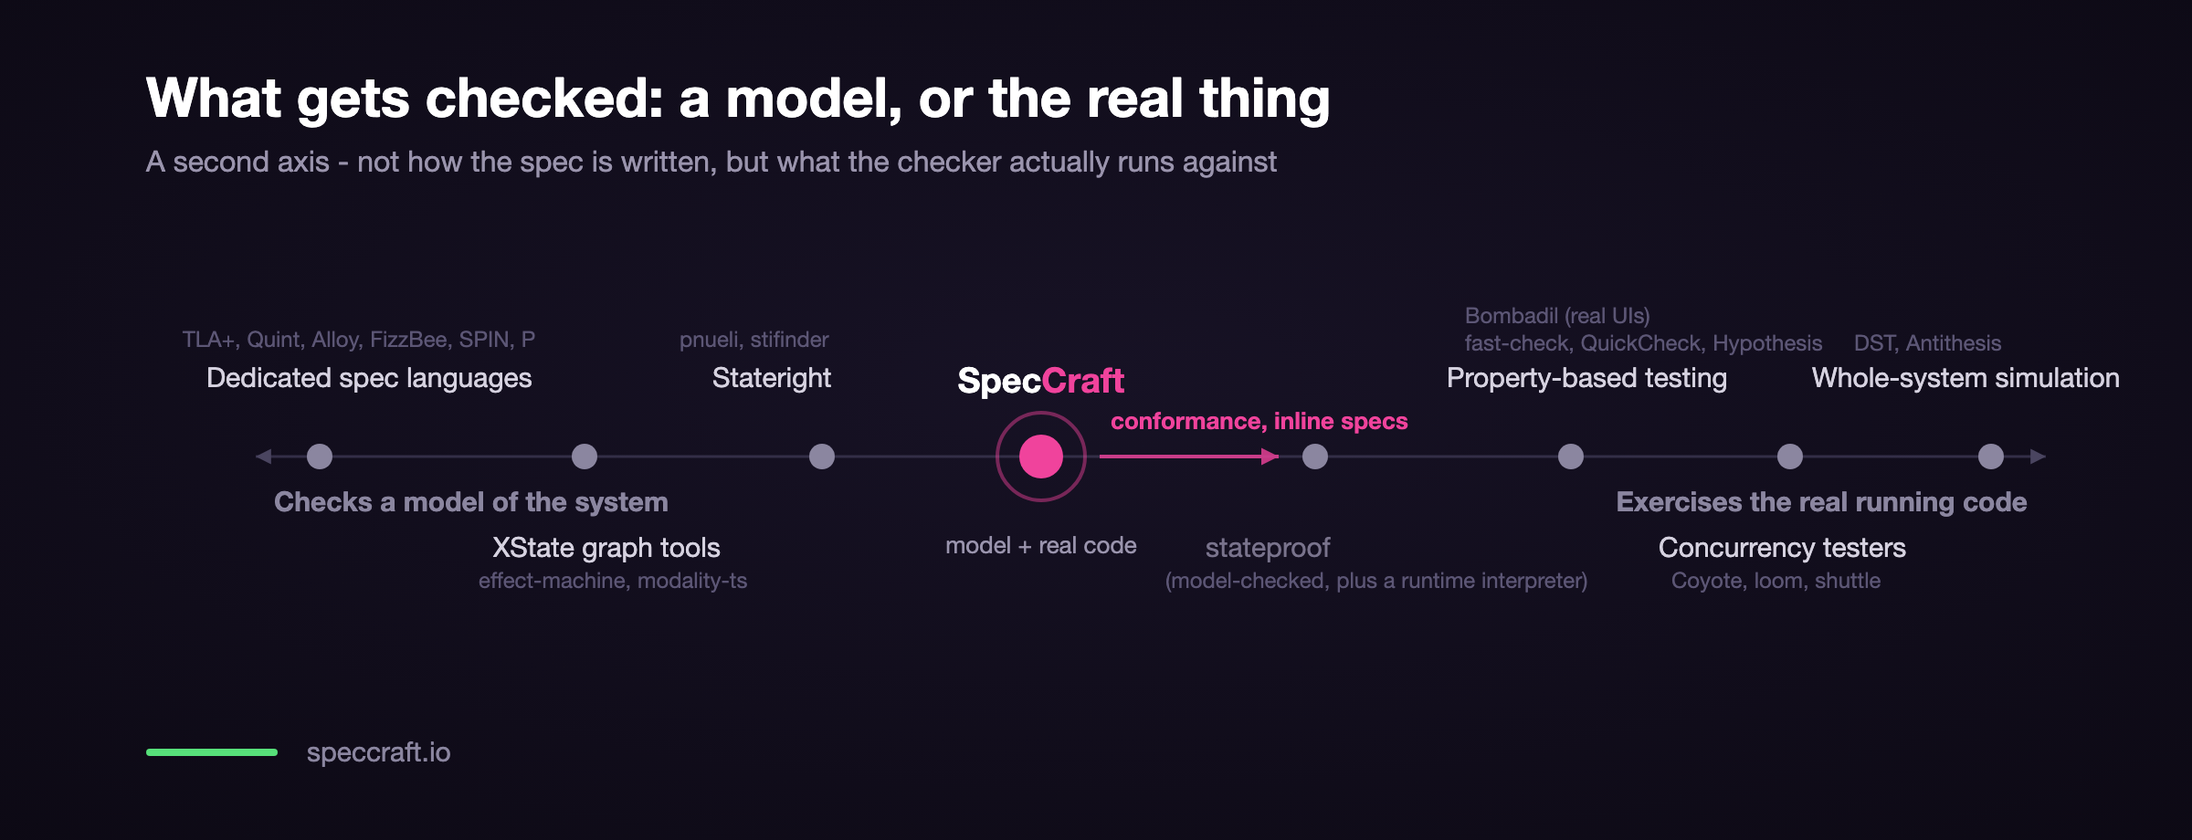
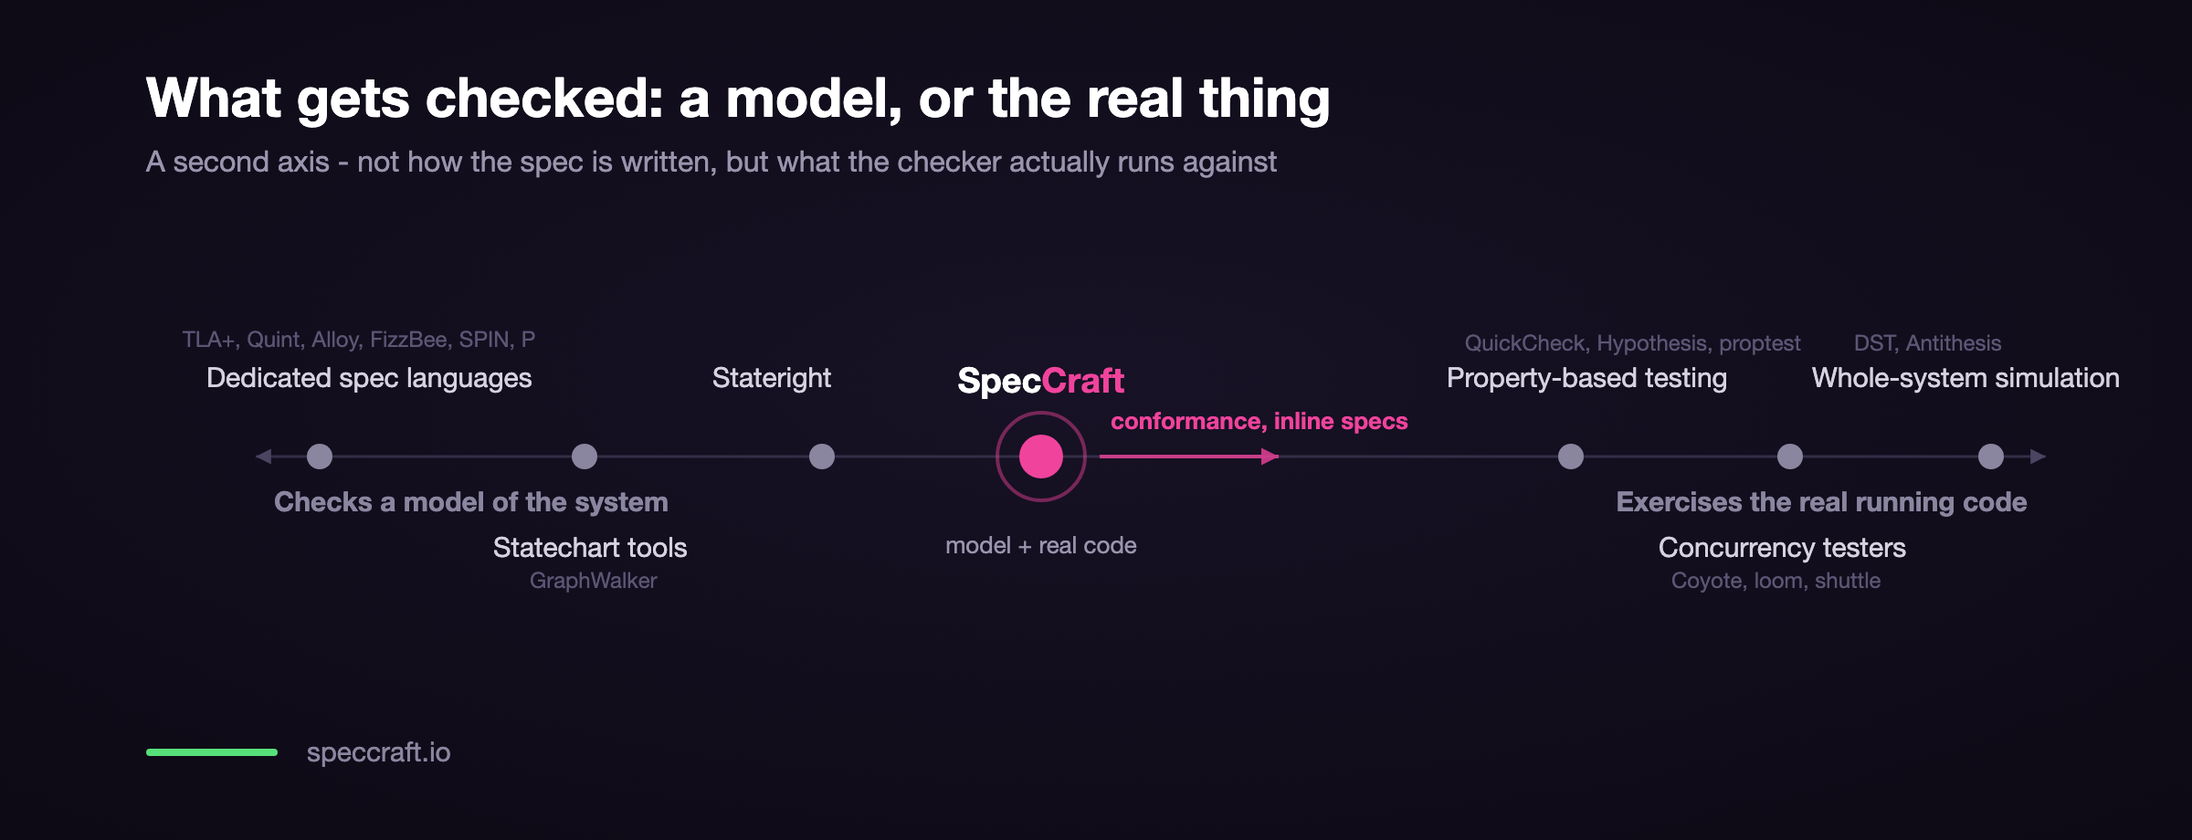
Rename the tools group to Non-TS tools, add a SpecCraft vs non-TS tools page, rename SpecCraft vs to SpecCraft vs TS tools with a fast-check page, and update the model-vs-real-code diagram.

diff --git a/public/assets/model-vs-real-code.html b/public/assets/model-vs-real-code.html
@@ -39,7 +39,6 @@
     <circle cx="175" cy="250" r="7"/>
     <circle cx="320" cy="250" r="7"/>
     <circle cx="450" cy="250" r="7"/>
-    <circle cx="720" cy="250" r="7"/>
     <circle cx="860" cy="250" r="7"/>
     <circle cx="980" cy="250" r="7"/>
     <circle cx="1090" cy="250" r="7"/>
@@ -49,18 +48,14 @@
     <text x="113" y="212">Dedicated spec languages</text>
     <text x="100" y="190" font-size="12" fill="#5c5675">TLA+, Quint, Alloy, FizzBee, SPIN, P</text>
 
-    <text x="270" y="305">XState graph tools</text>
-    <text x="262" y="322" font-size="12" fill="#5c5675">effect-machine, modality-ts</text>
+    <text x="270" y="305">Statechart tools</text>
+    <text x="290" y="322" font-size="12" fill="#5c5675">GraphWalker</text>
 
     <text x="390" y="212">Stateright</text>
-    <text x="372" y="190" font-size="12" fill="#5c5675">pnueli, stifinder</text>
 
-    <text x="660" y="305" fill="#79738c">stateproof</text>
-    <text x="638" y="322" font-size="12" fill="#5c5675">(model-checked, plus a runtime interpreter)</text>
 
     <text x="792" y="212">Property-based testing</text>
-    <text x="802" y="192" font-size="12" fill="#5c5675">fast-check, QuickCheck, Hypothesis</text>
-    <text x="802" y="177" font-size="12" fill="#5c5675">Bombadil (real UIs)</text>
+    <text x="802" y="192" font-size="12" fill="#5c5675">QuickCheck, Hypothesis, proptest</text>
 
     <text x="908" y="305">Concurrency testers</text>
     <text x="915" y="322" font-size="12" fill="#5c5675">Coyote, loom, shuttle</text>

diff --git a/src/content/docs/how-speccraft-compares.md b/src/content/docs/how-speccraft-compares.md
@@ -1,6 +1,6 @@
 ---
-title: How SpecCraft compares
-description: A map of the tools that check state-machine-shaped correctness, where SpecCraft sits, what it trades away to sit there, and how it differs from the closest existing tools in TypeScript.
+title: SpecCraft vs TypeScript tools
+description: A map of the TypeScript tools that check state-machine-shaped correctness, where SpecCraft sits among them, and how it differs from each of the closest ones.
 ---
 
 **TL;DR:** no existing tool does what SpecCraft does, the way it does it. The closest is
@@ -20,10 +20,10 @@ reachable state, checks invariants, and hands back a counterexample trace when o
 breaks. No new spec language, no compiler between your guards and what actually gets
 checked.
 
-That one sentence is a specific spot in a landscape that already has several
-well-established corners.
+This page covers tools a TypeScript team can use directly. For TLA+, Quint, Alloy, Stateright,
+Coyote and the rest of the wider field, see [SpecCraft vs non-TS tools](/tools/speccraft-vs-non-ts-tools).
 
-## TypeScript tools
+## The map
 
 The TypeScript tools we have found, placed by how the spec is written and whether
 the checker explores every state or samples.
@@ -32,33 +32,20 @@ the checker explores every state or samples.
 
 *Click to enlarge.*
 
-## All languages
-
-The wider landscape, with SpecCraft for reference.
-
-<a href="/assets/positioning.png" class="lightbox-trigger"><img src="/assets/positioning.png" alt="A two-by-two map across all languages: new spec language vs. plain code on one axis, exhaustive checking vs. random sampling on the other. TLA+, Quint, Alloy, FizzBee, P and SPIN are in the spec-language, exhaustive quadrant; SpecCraft sits in the plain-code, exhaustive quadrant with Stateright, Coyote, loom and shuttle, Java PathFinder and Concuerror, and GraphWalker; FoundationDB and TigerBeetle DST, Antithesis and QuickCheck and Hypothesis are in the sampling half; quint run is the simulator."></a>
-
-*Click to enlarge.*
-
-Here are the same maps as one table, and why SpecCraft's corner is worth having in
-TypeScript even though most of the neighboring corners are older and more powerful
-along some other axis.
-
 ## The landscape
 
-Group tools by two questions: what language is the spec written in, and does the
-checker explore every state or sample randomly? TypeScript and JavaScript entries are
-marked (TS).
+The same tools as a table, grouped by two questions: what language is the spec written in,
+and does the checker explore every state or sample randomly?
 
-| Corner | What it is | Tools | The trade |
+| Corner | What it is | TypeScript tools | The trade |
 |---|---|---|---|
-| **1. Dedicated spec language, industrial checkers** | Write the model in a purpose-built language, or a DSL compiled to one; a mature checker verifies it. | TLA+ (TLC explicit, Apalache symbolic), Quint, Alloy, FizzBee, SPIN/Promela, P (AWS). In TS: [tla-precheck](/vs/tla-precheck) (a small TS DSL compiled to TLA+ and checked against its own interpreter), [stateproof](/vs/stateproof) (TS-looking source re-parsed into TLA+), [tla-checker](https://www.npmjs.com/package/tla-checker) (TLC compiled to WebAssembly), [uneffect](https://github.com/mizchi/uneffect) (spec comments on existing TS, checked by Quint), [weavecheck](https://github.com/Ikteder/weavecheck) (a JSON concurrency model, every interleaving explored). | Maximum checking power, including symbolic reasoning over huge value ranges, but the spec is a separate artifact in a separate language (or a restricted subset) your team may not read or maintain. |
-| **2. Model checker as a library, in your language** | The model is ordinary code in the language you already use; the library explores it exhaustively. | Stateright (Rust). In TS: **SpecCraft**, [pnueli](/vs/pnueli) (with symmetry and partial-order reduction, and liveness), [Polygraph](/vs/polygraph) (the spec is derived from your code by an LLM, then model-checked), [stifinder](/vs/stifinder) (a search core ordered by fewest departures from the expected schedule). | You keep your language and arbitrary logic in guards and effects. You give up symbolic checking and, in most of these, heavyweight liveness under fairness. |
-| **3. Model-based testing, random sampling** | Commands with preconditions run against a model, sampled randomly and shrunk on failure, or traces from a spec replayed against the real implementation. | [fast-check](/vs/fast-check) (TS), QuickCheck (Haskell), Hypothesis stateful (Python), proptest (Rust). Spec-trace replay in TS: [quint-connect-ts](https://github.com/dearlordylord/quint-connect-ts) (Quint), [@fizzbee/mbt](https://www.npmjs.com/package/@fizzbee/mbt) (FizzBee), [tla-connect](https://www.npmjs.com/package/tla-connect) (Apalache), [quint-refinements](https://www.npmjs.com/package/quint-refinements) (Quint, Rust binding only so far). Model versus real code, sampled: [formalizr](https://github.com/Tomperez98/formalizr). Temporal properties over sampled runs: [Bombadil](/vs/bombadil) (real web and terminal UIs, from Antithesis), [fast-check-ltl](https://www.npmjs.com/package/fast-check-ltl), [eventlaw](https://www.npmjs.com/package/eventlaw). | Tests the real system, not just a model. Adjacent to SpecCraft, not competing: SpecCraft's conformance check walks the whole state graph instead of sampling it. |
-| **4. Path coverage over statecharts and UI state** | Exhaustive traversal, but the model must already be a statechart or come from a supported framework; the output is test cases. | XState graph tools (TS), GraphWalker (Java), [modality-ts](https://github.com/Harineko0/modality-ts) (TS: extracts a bounded model from React components and checks properties), [effect-machine](/vs/effect-machine) (TS: bounded BFS over Effect statecharts, with invariants and coverage). | The corner people most often mistake for corner 2 in TypeScript: it looks similar, but the model has to fit a machine shape or a framework first. |
-| **5. Controlled scheduling of real code** | No separate model: control the scheduler and run the actual code under many interleavings. | Coyote (.NET), loom / shuttle (Rust), Java PathFinder, Concuerror (Erlang). In TS: [unflake](https://github.com/BOTIROFF-D/unflake), [determined](https://github.com/glideapps/determined), [deja-dst](https://github.com/sagarrsharmaa/deja) (all seeded schedules, sampled rather than exhaustive); [cloudfault](https://github.com/gmackie/cloudfault) (fault combinations on real Cloudflare Workers, with a depth-bounded exhaustive mode). Prior art: [typescript-actors](https://github.com/p-org/typescript-actors) from the P team (2017, dormant) controlled all asynchrony to explore interleavings. | The most realistic answer to "does my real code have a race," but in TypeScript today it samples schedules instead of exploring all of them. |
-| **6. Whole-system deterministic simulation** | Run the entire real system inside a simulated world with a virtual clock and fault injection. | FoundationDB-style DST, TigerBeetle's VOPR, Antithesis (closed source). In TS: [chronos](https://github.com/sx4im/chronos), [unluck](https://github.com/001Sir/unluck), [crashlab](https://www.npmjs.com/package/crashlab), [moirae](https://github.com/pchrysostomou/moirae). | Maximum realism, large investment, and seeded sampling: a clean run means "not found," not "impossible." |
-| **7. Proof** | Prove correctness for all inputs instead of checking states. | TLAPS, Coq/Lean, Dafny, Ivy. In TS: [LemmaScript](/vs/lemmascript) (TS with contract comments, translated to Dafny or Lean, proofs written by an LLM). | A different sport: proof instead of exhaustive search. Strong on data and arithmetic, silent on the order of async events. |
+| **1. A spec language, used from TS** | The model is written in, or compiled to, a dedicated spec language, and a mature checker verifies it. | [tla-precheck](/vs/tla-precheck) (a small TS DSL compiled to TLA+ and checked against its own interpreter), [stateproof](/vs/stateproof) (TS-looking source re-parsed into TLA+), [tla-checker](https://www.npmjs.com/package/tla-checker) (TLC compiled to WebAssembly), [uneffect](https://github.com/mizchi/uneffect) (spec comments on existing TS, checked by Quint), [weavecheck](https://github.com/Ikteder/weavecheck) (a JSON concurrency model, every interleaving explored). | Checking power from mature tools, but the spec that is checked is not the TypeScript your team reads. |
+| **2. Model checker as a library** | The model is ordinary TypeScript; the library explores it exhaustively. | **SpecCraft**, [pnueli](/vs/pnueli) (with symmetry and partial-order reduction, and liveness), [Polygraph](/vs/polygraph) (the spec is derived from your code by an LLM, then model-checked), [stifinder](/vs/stifinder) (a search core ordered by fewest departures from the expected schedule). | You keep your language and arbitrary logic in guards and effects. You give up symbolic checking and, in most of these, heavyweight liveness under fairness. |
+| **3. Model-based testing, random sampling** | Commands with preconditions run against a model, sampled randomly and shrunk on failure, or traces from a spec replayed against the real implementation. | [fast-check](/vs/fast-check). Spec-trace replay: [quint-connect-ts](https://github.com/dearlordylord/quint-connect-ts) (Quint), [@fizzbee/mbt](https://www.npmjs.com/package/@fizzbee/mbt) (FizzBee), [tla-connect](https://www.npmjs.com/package/tla-connect) (Apalache), [quint-refinements](https://www.npmjs.com/package/quint-refinements) (Quint, Rust binding only so far). Model versus real code, sampled: [formalizr](https://github.com/Tomperez98/formalizr). Temporal properties over sampled runs: [Bombadil](/vs/bombadil) (real web and terminal UIs, from Antithesis), [fast-check-ltl](https://www.npmjs.com/package/fast-check-ltl), [eventlaw](https://www.npmjs.com/package/eventlaw). | Tests the real system, not just a model. Adjacent to SpecCraft, not competing: SpecCraft's conformance check walks the whole state graph instead of sampling it. |
+| **4. Path coverage over statecharts and UI state** | Exhaustive traversal, but the model must already be a statechart or come from a supported framework; the output is test cases. | XState graph tools, [modality-ts](https://github.com/Harineko0/modality-ts) (extracts a bounded model from React components and checks properties), [effect-machine](/vs/effect-machine) (bounded BFS over Effect statecharts, with invariants and coverage). | The corner people most often mistake for corner 2: it looks similar, but the model has to fit a machine shape or a framework first. |
+| **5. Controlled scheduling of real code** | No separate model: control the scheduler and run the actual code under many interleavings. | [unflake](https://github.com/BOTIROFF-D/unflake), [determined](https://github.com/glideapps/determined), [deja-dst](https://github.com/sagarrsharmaa/deja) (all seeded schedules, sampled rather than exhaustive); [cloudfault](https://github.com/gmackie/cloudfault) (fault combinations on real Cloudflare Workers, with a depth-bounded exhaustive mode). Prior art: [typescript-actors](https://github.com/p-org/typescript-actors) from the P team (2017, dormant) controlled all asynchrony to explore interleavings. | The most realistic answer to "does my real code have a race," but in TypeScript today it samples schedules instead of exploring all of them. |
+| **6. Whole-system deterministic simulation** | Run the entire real system inside a simulated world with a virtual clock and fault injection. | [chronos](https://github.com/sx4im/chronos), [unluck](https://github.com/001Sir/unluck), [crashlab](https://www.npmjs.com/package/crashlab), [moirae](https://github.com/pchrysostomou/moirae). | Maximum realism, large investment, and seeded sampling: a clean run means "not found," not "impossible." |
+| **7. Proof** | Prove correctness for all inputs instead of checking states. | [LemmaScript](/vs/lemmascript) (TS with contract comments, translated to Dafny or Lean, proofs written by an LLM). | A different sport: proof instead of exhaustive search. Strong on data and arithmetic, silent on the order of async events. |
 
 ## Where SpecCraft sits
 
@@ -86,34 +73,9 @@ What stays SpecCraft's own: the spec is full TypeScript, executed rather than tr
 graph; and inline specs sit next to real classes, with the explorer delivering async
 replies in every order.
 
-The honest trade for choosing corner 2 over corner 1: you give up symbolic checking
-(reasoning about a range of a million values as one formula, the way Apalache does) and
-full liveness under fairness. For workflow-shaped models (small, finite, naturally
-bounded) explicit-state exploration is the right tool and symbolic checking buys little.
-If a spec does outgrow explicit checking, the escape hatch is exporting the same
-variables, actions, and invariants to Quint.
-
 The nearest false neighbors, the tools people compare SpecCraft to first, are [fast-check](/vs/fast-check)
 (corner 3) and XState's graph tools (corner 4). The one-line difference: **exhaustive
 where fast-check is random, free-form where XState is machine-shaped.**
-
-## A second axis: model, or the real thing
-
-The map above answers "what language is the spec in." It doesn't answer a different
-question: does the checker run against a model of the system, or the real running
-code? That axis cuts across the first one. Coyote, loom/shuttle, and DST/Antithesis
-(corners 5 and 6) check the real system directly with no separate model at all, while
-SpecCraft, TLA+, Quint, and XState's graph tools all check a model of it instead.
-fast-check sits in between: it samples a model, then drives the real implementation
-with the sampled sequence.
-
-<a href="/assets/model-vs-real-code.png" class="lightbox-trigger"><img src="/assets/model-vs-real-code.png" alt="A spectrum from 'checks a model of the system' to 'exercises the real running code'. Dedicated spec languages, XState graph tools (with effect-machine and modality-ts), Stateright (with pnueli and stifinder), and SpecCraft sit at the model end; stateproof and property-based testing (fast-check, QuickCheck, Hypothesis, Bombadil) bridge the middle; concurrency testers (Coyote, loom, shuttle) and whole-system simulation (DST, Antithesis) sit at the real-code end. SpecCraft sits at the model end with an arrow toward real code: conformance and inline specs."></a>
-
-*Click to enlarge.*
-
-SpecCraft now covers both ends for the same spec. The spec stays the oracle, and
-`checkConformance` (or an inline spec next to the real class) checks the code that ships
-against it, without collapsing the two into the same artifact.
 
 <script>
   (() => {

diff --git a/src/content/docs/tools/speccraft-vs-non-ts-tools.md b/src/content/docs/tools/speccraft-vs-non-ts-tools.md
@@ -1,0 +1,90 @@
+---
+title: SpecCraft vs non-TS tools
+description: The wider field of tools for state-machine-shaped correctness in other languages - TLA+, Quint, Alloy, P, Stateright, Coyote, deterministic simulation - and where SpecCraft sits among them.
+---
+
+SpecCraft is a model checker as a library, in TypeScript. Most of the tools it is measured
+against are older, live in other languages, and are more powerful along some axis. This page
+places SpecCraft among them. For the tools a TypeScript team can use directly, see
+[SpecCraft vs TypeScript tools](/how-speccraft-compares). To try three of these tools from a
+TypeScript project, see [Lean](/tools/lean), [Dafny](/tools/dafny) and [Quint](/tools/quint).
+
+## The map
+
+The wider landscape, in any language, with SpecCraft for reference.
+
+<a href="/assets/positioning.png" class="lightbox-trigger"><img src="/assets/positioning.png" alt="A two-by-two map across all languages: new spec language vs. plain code on one axis, exhaustive checking vs. random sampling on the other. TLA+, Quint, Alloy, FizzBee, P and SPIN are in the spec-language, exhaustive quadrant; SpecCraft sits in the plain-code, exhaustive quadrant with Stateright, Coyote, loom and shuttle, Java PathFinder and Concuerror, and GraphWalker; FoundationDB and TigerBeetle DST, Antithesis and QuickCheck and Hypothesis are in the sampling half; quint run is the simulator."></a>
+
+*Click to enlarge.*
+
+## The landscape
+
+| Corner | What it is | Tools | The trade |
+|---|---|---|---|
+| **1. Dedicated spec language, industrial checkers** | Write the model in a purpose-built language; a mature checker verifies it. | TLA+ (TLC explicit, Apalache symbolic), Quint, Alloy, FizzBee, SPIN/Promela, P (AWS). | Maximum checking power, including symbolic reasoning over huge value ranges, but the spec is a separate artifact in a separate language your team may not read or maintain. |
+| **2. Model checker as a library, in your language** | The model is ordinary code in the language you already use; the library explores it exhaustively. | Stateright (Rust). SpecCraft is the TypeScript entry. | You keep your language and arbitrary logic in guards and effects. You give up symbolic checking and, in most of these, heavyweight liveness under fairness. |
+| **3. Model-based testing, random sampling** | Commands with preconditions run against a model, sampled randomly and shrunk on failure. | QuickCheck (Haskell), Hypothesis stateful (Python), proptest (Rust). | Tests the real system, not just a model, but a clean run means "not found in the runs made." |
+| **4. Path coverage over statecharts** | Exhaustive traversal of a model that is already a statechart; the output is test cases. | GraphWalker (Java). | The model has to fit a machine shape first. |
+| **5. Controlled scheduling of real code** | No separate model: control the scheduler and run the actual code under many interleavings. | Coyote (.NET), loom / shuttle (Rust), Java PathFinder, Concuerror (Erlang). | The most realistic answer to "does my real code have a race," tied to one runtime. |
+| **6. Whole-system deterministic simulation** | Run the entire real system inside a simulated world with a virtual clock and fault injection. | FoundationDB-style DST, TigerBeetle's VOPR, Antithesis (closed source). | Maximum realism, large investment, and seeded sampling: a clean run means "not found," not "impossible." |
+| **7. Proof** | Prove correctness for all inputs instead of checking states. | TLAPS, Coq/Lean, Dafny, Ivy. | Proof instead of exhaustive search. Strong on data and arithmetic, silent on the order of async events. |
+
+## Where SpecCraft sits
+
+SpecCraft is in **corner 2**, next to Stateright: the model is ordinary code and the library
+explores it. The honest trade for choosing corner 2 over corner 1: you give up symbolic checking
+(reasoning about a range of a million values as one formula, the way Apalache does) and
+full liveness under fairness. For workflow-shaped models (small, finite, naturally
+bounded) explicit-state exploration is the right tool and symbolic checking buys little.
+If a spec does outgrow explicit checking, the escape hatch is exporting the same
+variables, actions, and invariants to Quint.
+
+## A second axis: model, or the real thing
+
+The map above answers "what language is the spec in." It doesn't answer a different
+question: does the checker run against a model of the system, or the real running
+code? That axis cuts across the first one. Coyote, loom/shuttle, and DST/Antithesis
+(corners 5 and 6) check the real system directly with no separate model at all, while
+SpecCraft, TLA+, Quint, and statechart tools all check a model of it instead.
+Property-based testing sits in between: it samples a model, then drives the real implementation
+with the sampled sequence.
+
+<a href="/assets/model-vs-real-code.png" class="lightbox-trigger"><img src="/assets/model-vs-real-code.png" alt="A spectrum from 'checks a model of the system' to 'exercises the real running code'. Dedicated spec languages, statechart tools (GraphWalker), Stateright, and SpecCraft sit at the model end; property-based testing (QuickCheck, Hypothesis, proptest) bridges the middle; concurrency testers (Coyote, loom, shuttle) and whole-system simulation (DST, Antithesis) sit at the real-code end. SpecCraft sits at the model end with an arrow toward real code: conformance and inline specs."></a>
+
+*Click to enlarge.*
+
+SpecCraft now covers both ends for the same spec. The spec stays the oracle, and
+`checkConformance` (or an inline spec next to the real class) checks the code that ships
+against it, without collapsing the two into the same artifact.
+
+<script>
+  (() => {
+    const overlay = document.createElement('div');
+    overlay.className = 'js-lightbox-overlay';
+    overlay.hidden = true;
+    const img = document.createElement('img');
+    overlay.appendChild(img);
+    document.body.appendChild(overlay);
+
+    function close() {
+      overlay.hidden = true;
+      img.src = '';
+    }
+
+    overlay.addEventListener('click', close);
+    document.addEventListener('keydown', (e) => {
+      if (e.key === 'Escape' && !overlay.hidden) close();
+    });
+
+    document.querySelectorAll('.lightbox-trigger').forEach((trigger) => {
+      trigger.addEventListener('click', (e) => {
+        const triggerImg = trigger.querySelector('img');
+        if (!triggerImg) return;
+        e.preventDefault();
+        img.src = triggerImg.src;
+        img.alt = triggerImg.alt;
+        overlay.hidden = false;
+      });
+    });
+  })();
+</script>
